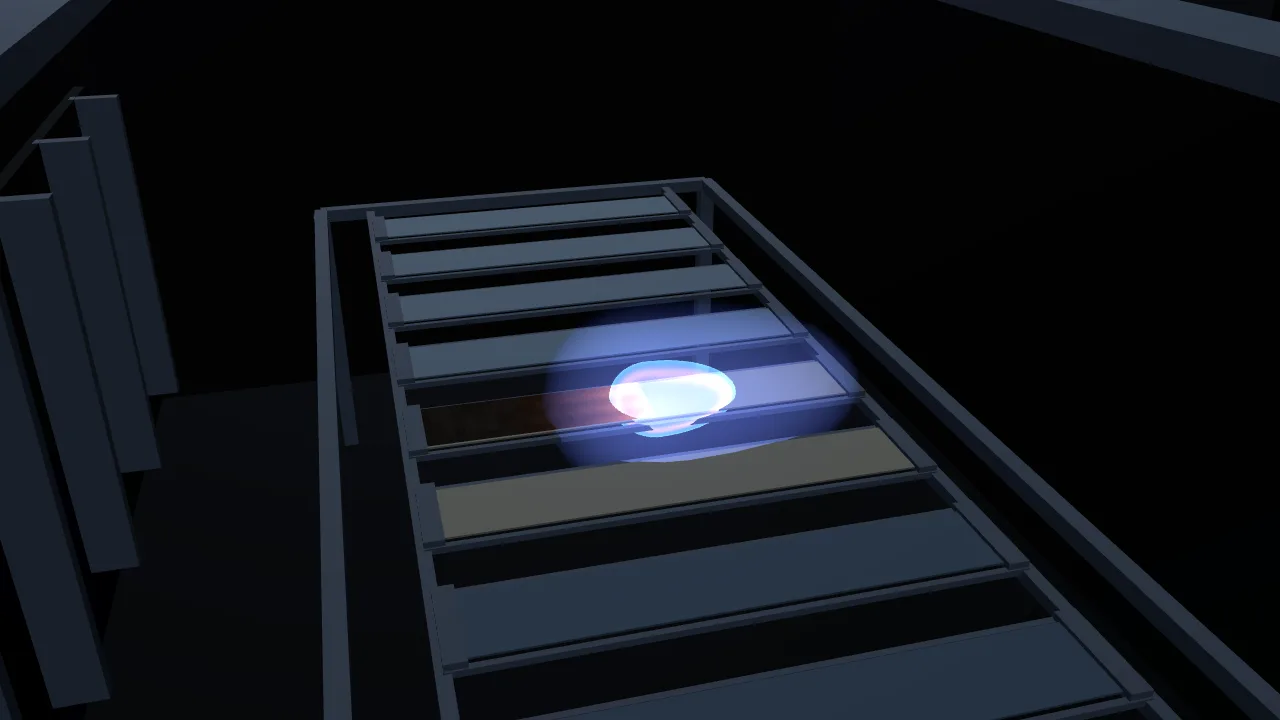
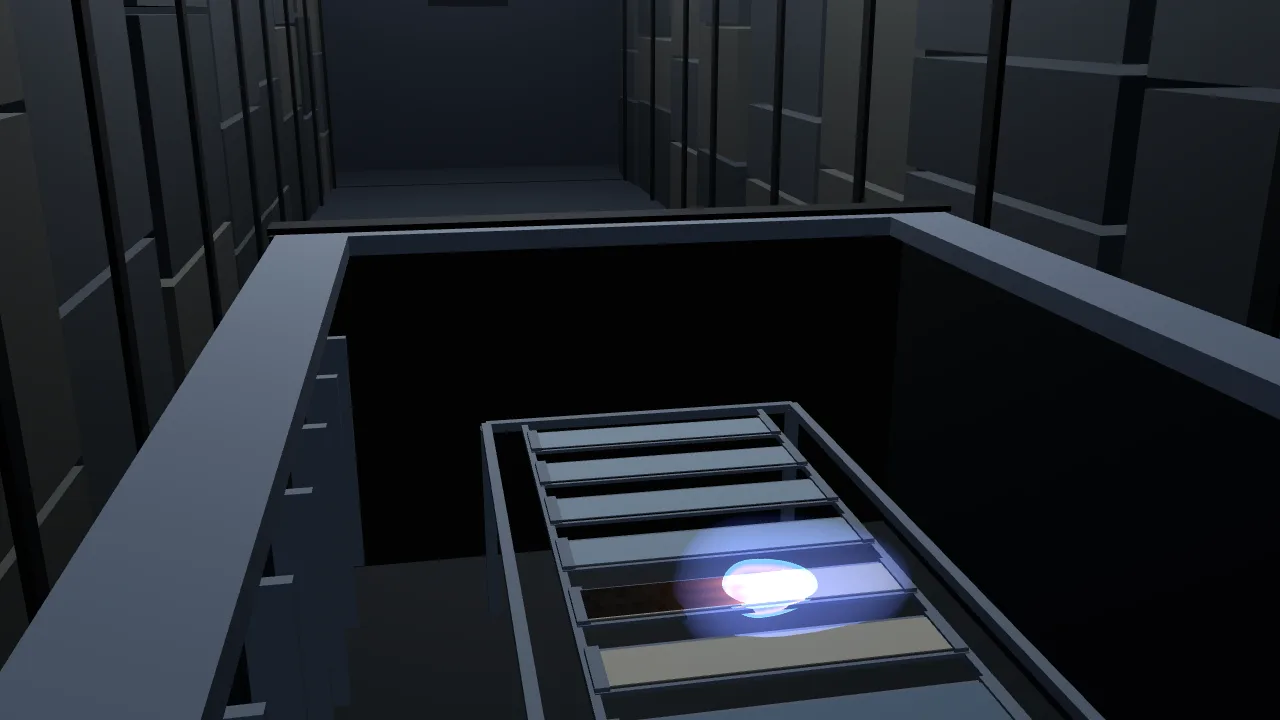
review fix lane D: retaken screenshots and poster, report notes the review fixes

diff --git a/docs/lane-reports/d.md b/docs/lane-reports/d.md
@@ -24,10 +24,10 @@ unused: the set is built in code (see "Set").
   strip from SAFFIRE-II burns inside a Cygnus cargo ship; its spread and timing come from the run table, its look is
   illustrative." Fills its parent, owns its `<Canvas>`.
   - Moving: opens on the module and the flow unit, pushes in low over the window while the igniter runs (about
-    3 s), then holds a 3/4 view where the flame and halo fill about a fifth of the frame height. Loops: igniter
+    3 s), then holds a raised 3/4 view: the flame low in frame, the cargo-lined module running away above the flow unit. Loops: igniter
     9.2 s, burn 145 s, hold 25 s (record seconds), played at 10x. Replay and Pause/Play buttons.
   - `calm`: no camera move, one still frame at mid-burn (72.5 s), no loop, flicker off; a "Play once" button.
-  - Poster `public/img/scenes/saffire.webp` (1280x720, 24.7 KB, my own render of the calm frame) replaces the canvas
+  - Poster `public/img/scenes/saffire.webp` (1280x720, 30.1 KB, our own render of the calm frame) replaces the canvas
     when WebGL is unavailable or the context is lost. Both paths tested (see Verified).
   - Pauses rendering when off screen (IntersectionObserver); `frameloop="demand"` when paused or calm.
 - **HUD** (DOM over the canvas): experiment name and sample, Oxygen %, Air flow cm/s, Pressure (Not on record),
@@ -161,3 +161,18 @@ Screenshots (`docs/lane-reports/d/`), looked at one by one:
    microgravity look. The caption says the look is illustrative. Keep blue, or warm the front flame?
 5. Opening push-in (moving only) vs. a fixed close view from the first frame.
 6. Callout 2 is the silicone takeaway (about 0 cm burned in microgravity). Alternative: no second callout.
+
+## Review fixes (reviewer, after the lane)
+
+- Status line under the HUD now describes the frame on screen (`statusLine` in `timeline.ts`, tested): after
+  "Play once" ends it reads "Still frame, burn over", not "mid-burn"; a paused replay reads "Paused".
+- Still frames (calm or paused) redraw the leader line when another note is picked on a phone; before, the new
+  note had no leader until the next frame. Browser-checked; not unit-testable without a GPU.
+- `FlameFront` keeps its point light, and the scene keeps its igniter mesh, mounted and only hides them. Before,
+  each ignition and burnout changed the light count and relinked the lit set shader (one extra link per loop,
+  measured); now zero. Not unit-testable without a GPU.
+- Set reads as a spacecraft on desktop: the held view sits higher and looks down the module (cargo stacks, deck,
+  far end) above the flow unit; ceiling lights 5 -> 12 cd, fog starts at 3.5 m instead of 2 m. Phone pose unchanged.
+  Screenshots and poster retaken. Overlay contrast re-measured over one loop: muted text at least 5.2:1 (375 wide).
+- Measured with the harness built as a second entry: main and base chunks hold no three.js or fx code;
+  `saffire-*.js` 24.7 kB (9.1 kB gzip) when zod is shared; three + R3F chunk 918 kB (242.5 kB gzip).
